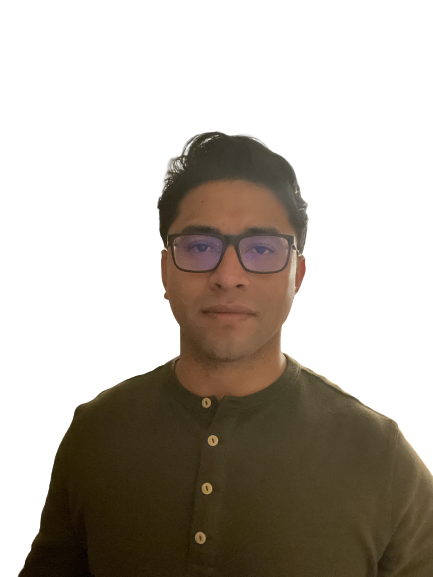
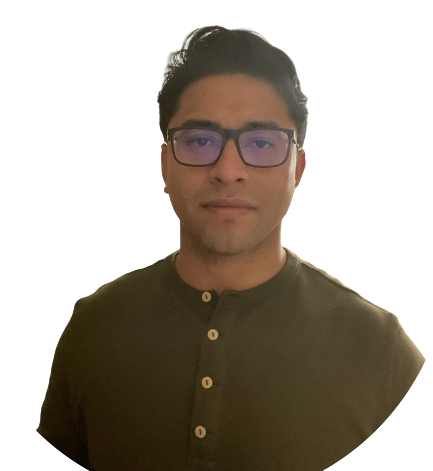
project page

Changed region(s): [[0.03, 0.0297, 1.0, 1.0], [0.4503, 0.8025, 0.5104, 0.862], [0.4503, 0.8917, 0.4804, 0.9512]]

diff --git a/portfolio-item.html b/portfolio-item.html
@@ -1,0 +1,85 @@
+<!DOCTYPE html>
+<html lang="en">
+    <head>
+        <meta charset="UTF-8">
+        <meta name="viewport" content="width=device-width, initial-scale=1.0">
+        <title>Mario Portfolio Website</title>
+        <!-- <link rel="stylesheet" href="https://cdnjs.cloudflare.com/ajax/libs/normalize/7.0.0/normalize.min.css">
+        <link rel="stylesheet" href="https://cdnjs.cloudflare.com/ajax/libs/font-awesome/5.11.2/css/all.css" integrity="sha256-46qynGAkLSFpVbEBog43gvNhfrOj+BmwXdxFgVK/Kvc=" crossorigin="anonymous" />  
+       -->
+        <link href='https://unpkg.com/boxicons@2.0.7/css/boxicons.min.css' rel='stylesheet'>
+        <link rel="preconnect" href="https://fonts.gstatic.com">
+        <link href="https://fonts.googleapis.com/css2?family=Montserrat:wght@500;600;700&display=swap" rel="stylesheet">
+        <link rel="stylesheet" href="css/style.css">
+
+    </head>
+    <body>
+      <header class="l-header">
+        <nav class="nav bd-grid">
+            <div>
+                <a href="#" class="nav__logo">Mario Catzin</a>
+            </div>
+    
+            <div class="nav__menu" id="nav-menu">
+                <ul class="nav__list">
+                    <li class="nav__item"><a href="index.html" class="nav__link active">Home</a></li>
+                    <li class="nav__item"><a href="index.html#about" class="nav__link">About</a></li>
+                    <li class="nav__item"><a href="index.html#skills" class="nav__link">Skills</a></li>
+                    <li class="nav__item"><a href="index.html#portfolio" class="nav__link">Portfolio</a></li>
+                    <li class="nav__item"><a href="index.html#contact" class="nav__link">Contact</a></li>
+                </ul>
+            </div>
+    
+            <div class="nav__toggle" id="nav-toggle">
+                <i class='bx bx-menu'></i>
+            </div>
+        </nav>
+      </header>
+        <main>
+      <section class="intro section">
+        <h1 class="section-title">
+            Shilo's <strong>Toys</strong>
+        </h1>
+        <img src="img/shilostoys.png" alt="" class="intro__img">
+    </section>
+    <section class="item section">
+      <div class="portfolio-item-individual">
+        <p>Voluptatibus, soluta blanditiis! Incidunt ea unde itaque illo molestiae eligendi sint culpa nobis voluptas sapiente voluptate, magnam ipsum eius earum?</p>
+        <img src="img/portfolio-details.jpg" alt="">
+        <p>Lorem, ipsum dolor sit amet consectetur adipisicing elit. Saepe et amet tenetur! Fugit sequi optio corrupti fugiat ducimus consequatur incidunt?</p>
+        <p>Voluptatibus, soluta blanditiis! Incidunt ea unde itaque illo molestiae eligendi sint culpa nobis voluptas sapiente voluptate, magnam ipsum eius earum?</p>
+        <div class="about__social social">
+          <a href="https://shilostoys.herokuapp.com/" class="about__social-icon"><i class='bx bx-window-alt'></i></a>
+          <a href="https://github.com/mcatzin/shilotoys" class="about__social-icon"><i class='bx bxl-github' ></i></a>
+        </div>
+    </div>
+    </section>
+    
+</main>
+
+    <footer class="footer section">
+      <div class="footer__container bd-grid">
+          <div class="footer__data">
+              <h2 class="footer__title">Mario Catzin</h2>
+              <p class="footer__text">I'm Mario Catzin and this is my personal website</p>
+          </div>
+  
+          <div class="footer__data">
+              <h2 class="footer__title">EXPLORE</h2>
+              <ul>
+                  <li><a href="#home" class="footer__link">Home</a></li>
+                  <li><a href="#about" class="footer__link">About</a></li>
+                  <li><a href="#skills" class="footer__link">Skills</a></li>
+                  <li><a href="#portfolio" class="footer__link">Portfolio</a></li>
+                  <li><a href="#Contact" class="footer__link">Contact</a></li>
+              </ul>
+          </div>
+    
+      </div>
+  </footer>
+        
+        
+        <script src="js/index.js"></script>
+        
+    </body>
+</html>

diff --git a/index.html b/index.html
@@ -7,7 +7,7 @@
   <link rel="preconnect" href="https://fonts.gstatic.com">
 <link href="https://fonts.googleapis.com/css2?family=Montserrat:wght@500;600;700&display=swap" rel="stylesheet">
   <link rel="stylesheet" href="./css/style.css"/>
-  <title>Document</title>
+  <title>Mario Portfolio Website</title>
 </head>
 <body>
   <header class="l-header">
@@ -41,22 +41,24 @@
               <a href="#about" class="home__scroll-link"><i class='bx bx-up-arrow-alt' ></i>Scroll down</a>
           </div>
 
-          <img src="img/mario.png" alt="Mario" class="home__img">
+          <img src="img/2.png" alt="Mario" class="home__img">
       </div>
   </section>
   <!-- ==== About === -->
-  <section class="about sectiono" id="about">
+  <section class="about section" id="about">
     <h2 class="section-title">About</h2>
 
     <div class="about__container bd-grid">
       <div class="about__img">
-        <img src="img/mario.png" alt="Mario">
+        <img src="img/2.png" alt="Mario">
       </div>
 
       <div>
         <h2 class="about__subtitle">I'am Mario Catzin</h2>
-        <span class="about__profession">Web Developer</span>
-        <p class="about__text">Lorem ipsum dolor sit amet consectetur adipisicing elit.</p>
+        <span class="about__profession">Software Developer</span>
+        <p class="about__text">A passionate Full Stack Software Developer having experience in building web applications 
+          with JavaScript/React.js/Node.js/Spring Framework and some other cool libraries and frameworks. 
+          I'm always looking to learn new things about software development.</p>
 
         <div class="about__social">
           <a href="#" class="about__social-icon"><i class='bx bxl-linkedin' ></i></a>
@@ -79,6 +81,9 @@
               <span class="skills__name">Node.js</span>
               <span class="skills__name">Java</span>
               <span class="skills__name">Python</span>
+              <span class="skills__name">MongoDB</span>
+              <span class="skills__name">MySQL</span>
+              <span class="skills__name">Spring Framework</span>
           </div>
 
           <div class="skills__img">
@@ -92,10 +97,10 @@
 
     <div class="portfolio__container bd-grid">
         <div class="portfolio__img">
-            <img src="img/shilo-toys.png" alt="">
+            <img src="img/shilostoys.png" alt="">
 
             <div class="portfolio__link">
-                <a href="#" class="portfolio__link-name">View details</a>
+                <a href="portfolio-item.html" class="portfolio__link-name">View details</a>
             </div>
         </div>
         <div class="portfolio__img">
@@ -129,7 +134,7 @@
 
             <textarea name="" id="" cols="0" rows="10" class="contact__input"></textarea>
 
-            <input type="submit" value="Enviar" class="contact__button">
+            <input type="submit" value="Submit" class="contact__button">
         </form>
     </div>
   </section>

diff --git a/css/style.css b/css/style.css
@@ -5,7 +5,7 @@
 }
 
 :root {
-  --first-color: #bed3d4;
+  --first-color: #4070f4;
   --white-color: #fafaff;
   --dark-color: #2a3b47;
   --text-color: #697477;
@@ -210,6 +210,10 @@ img {
   right: 0;
   bottom: 0;
   width: 295px;
+  background-color: gray;
+  /* background-image: url("../img/background.png");
+  background-size: auto; */
+  border-radius: 30%;
 }
 /* ******* About ******* */
 .about__container {
@@ -227,9 +231,13 @@ img {
   background-color: var(--first-color);
   border-radius: 50%;
   overflow: hidden;
+  /* background-image: url("../img/background.png");
+  background-repeat: no-repeat;
+  background-size: 190px; */
 }
 .about__img img {
   width: 100px;
+  border-radius: 30%;
 }
 
 .about__subtitle {
@@ -466,4 +474,27 @@ img {
     margin-left: auto;
     margin-right: auto;
   }
+}
+
+.portfolio-item-individual {
+  padding: 0 2rem 2rem;
+  max-width: 1000px;
+  margin: 0 auto;
+}
+
+.portfolio-item-individual p {
+  max-width: 600px;
+  margin-left: auto;
+  margin-right: auto;
+}
+
+.intro__img {
+  margin-left: auto;
+  margin-right: auto;
+  width: 50%;
+}
+
+.social {
+  text-align: center;
+  margin-top: var(--mb-2);
 }
